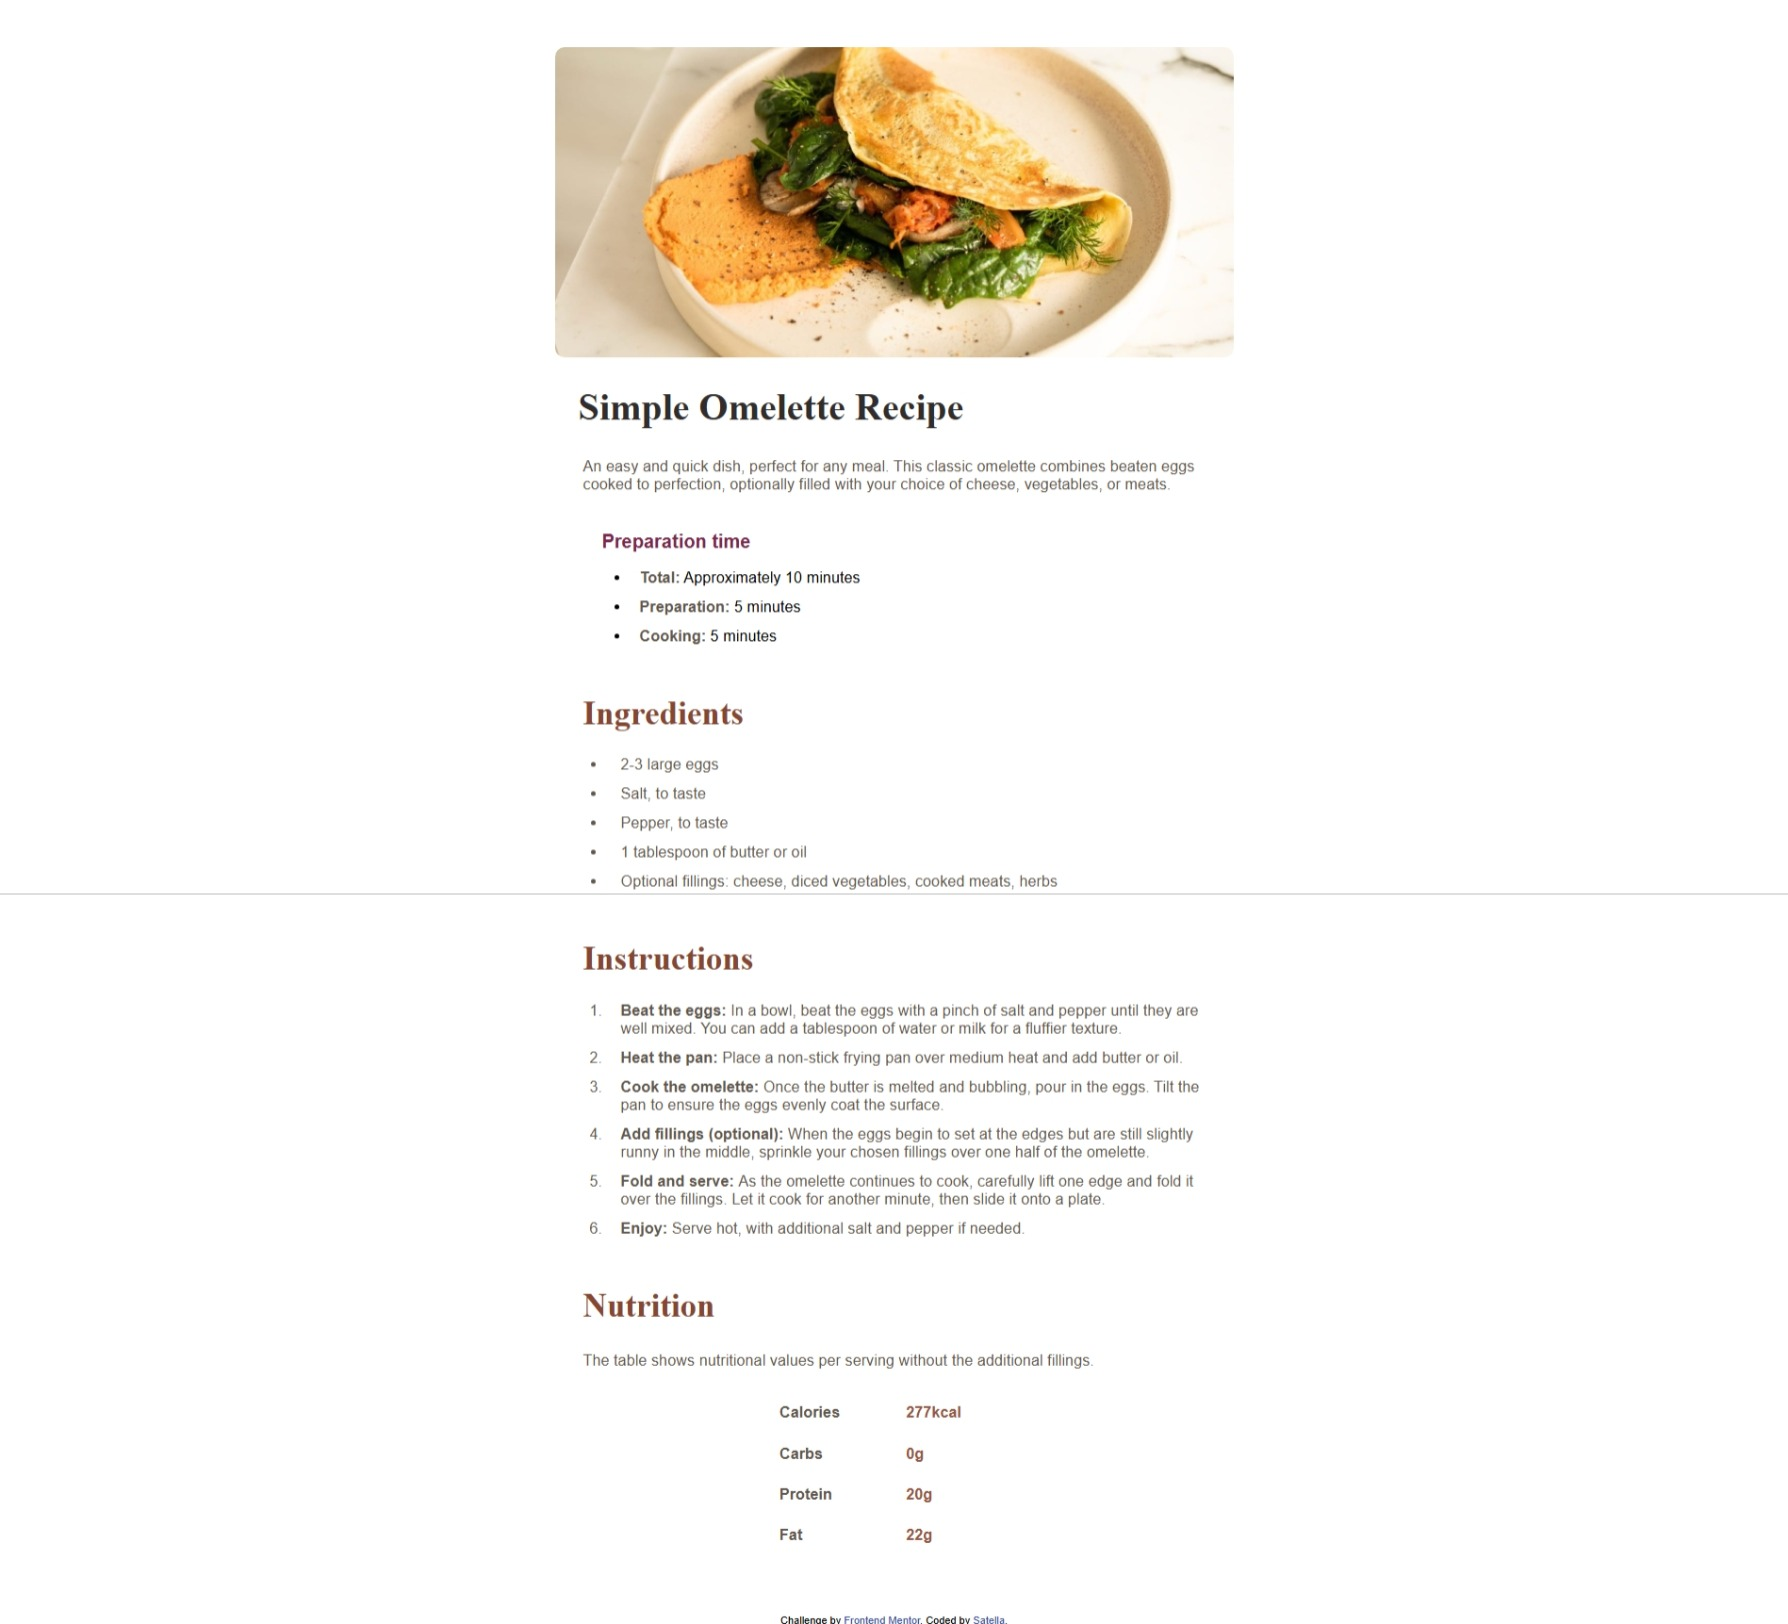
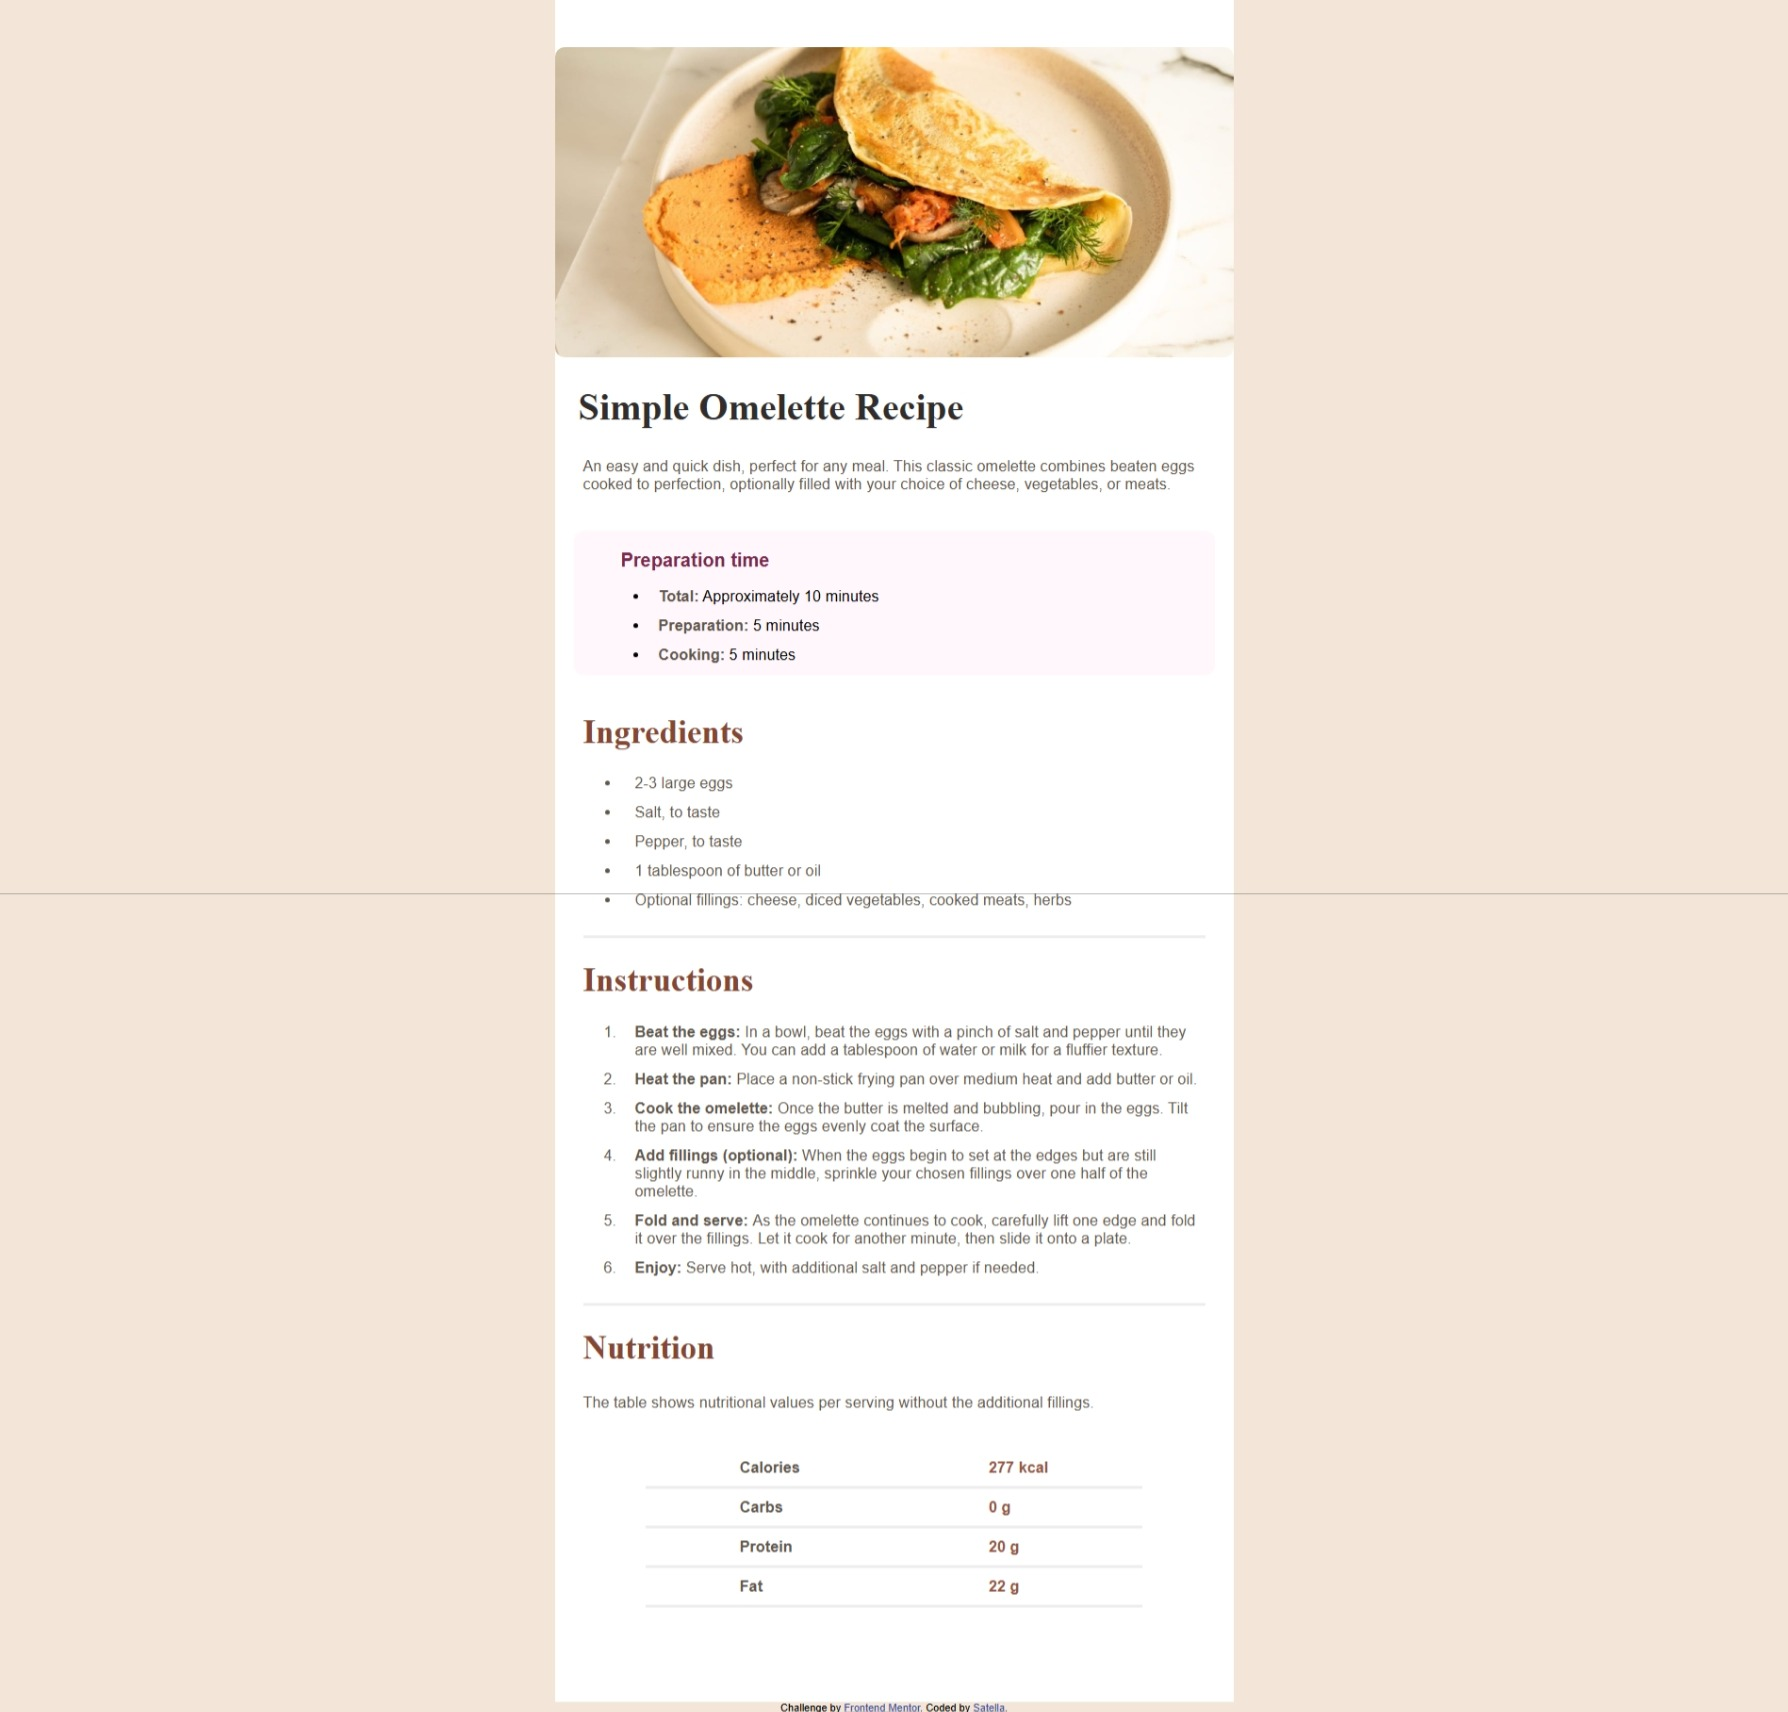
Fixes
Adjustments I made because certain details were not visible between my two pants, plus I changed to a board instead of a flex body at the end.

diff --git a/Recipe page/index.html b/Recipe page/index.html
@@ -38,15 +38,18 @@
         combines beaten eggs cooked to perfection, optionally filled with your
         choice of cheese, vegetables, or meats.
       </div>
-      <div class="recipe-preparation-title">Preparation time</div>
-      <div class="recipe-preparation">
-        <ul>
-          <li>
-            <strong class="bold-brown">Total:</strong> Approximately 10 minutes
-          </li>
-          <li><strong class="bold-brown">Preparation:</strong> 5 minutes</li>
-          <li><strong class="bold-brown">Cooking:</strong> 5 minutes</li>
-        </ul>
+      <div class="recipe-preparation-container">
+        <div class="recipe-preparation-title">Preparation time</div>
+        <div class="recipe-preparation">
+          <ul>
+            <li>
+              <strong class="bold-brown">Total:</strong> Approximately 10
+              minutes
+            </li>
+            <li><strong class="bold-brown">Preparation:</strong> 5 minutes</li>
+            <li><strong class="bold-brown">Cooking:</strong> 5 minutes</li>
+          </ul>
+        </div>
       </div>
       <div class="recipe-subtitle">Ingredients</div>
       <div class="recipe-list">
@@ -100,20 +103,24 @@
         The table shows nutritional values per serving without the additional
         fillings.
       </div>
-      <div class="recipe-nutrition-table">
-        <div class="recipe-nutrition">
-          <p class="recipe-row-gap">Calories</p>
-          <p class="recipe-row-gap">Carbs</p>
-          <p class="recipe-row-gap">Protein</p>
-          <p class="recipe-row-gap">Fat</p>
-        </div>
-        <div class="recipe-nutrition-values">
-          <p class="recipe-row-gap">277kcal</p>
-          <p class="recipe-row-gap">0g</p>
-          <p class="recipe-row-gap">20g</p>
-          <p class="recipe-row-gap">22g</p>
-        </div>
-      </div>
+      <table class="recipe-nutrition-table">
+        <tr class="recipe-nutrition">
+          <td>Calories</td>
+          <td class="recipe-nutrition-values">277 kcal</td>
+        </tr>
+        <tr class="recipe-nutrition">
+          <td>Carbs</td>
+          <td class="recipe-nutrition-values">0 g</td>
+        </tr>
+        <tr class="recipe-nutrition">
+          <td>Protein</td>
+          <td class="recipe-nutrition-values">20 g</td>
+        </tr>
+        <tr class="recipe-nutrition">
+          <td>Fat</td>
+          <td class="recipe-nutrition-values">22 g</td>
+        </tr>
+      </table>
     </div>
 
     <div class="attribution">

diff --git a/Recipe page/styles.css b/Recipe page/styles.css
@@ -34,7 +34,14 @@ body {
 .recipe-description {
   font-weight: 500;
   color: #5f574e;
-  padding: 20px 25px 20px 30px;
+  padding: 20px 25px 40px 30px;
+}
+
+.recipe-preparation-container {
+  background-color: #fff7fc;
+  border-radius: 10px;
+  margin-left: 20px;
+  margin-right: 20px;
 }
 
 .recipe-preparation-title {
@@ -69,8 +76,9 @@ body {
 .recipe-list {
   font-weight: 400;
   color: #5f574e;
-  padding-left: 15px;
-  padding-right: 25px;
+  border-bottom: #ededed 3px solid;
+  margin-left: 30px;
+  margin-right: 30px;
 }
 
 .recipe-list li {
@@ -79,26 +87,24 @@ body {
 }
 
 .recipe-nutrition-table {
-  display: flex;
-  justify-content: center;
-  gap: 70px;
-  row-gap: 100px;
-  padding-bottom: 50px;
-  padding-right: 50px;
+  border-collapse: collapse; 
+  margin: 0 auto;
+  margin-bottom: 100px;
 }
 
 .recipe-nutrition {
+  border-bottom: 3px solid #ededed;
+}
+
+.recipe-nutrition td {
   font-weight: 600;
   color: #5f574e;
+  padding: 10px 100px;
 }
 
-.recipe-nutrition-values {
+.recipe-nutrition td.recipe-nutrition-values {
   color: rgb(148, 86, 69);
-  font-weight: bold;
-}
-
-.recipe-row-gap {
-  padding-bottom: 8px;
+  font-weight: bolder;
 }
 
 @media (min-width: 1000px) {
